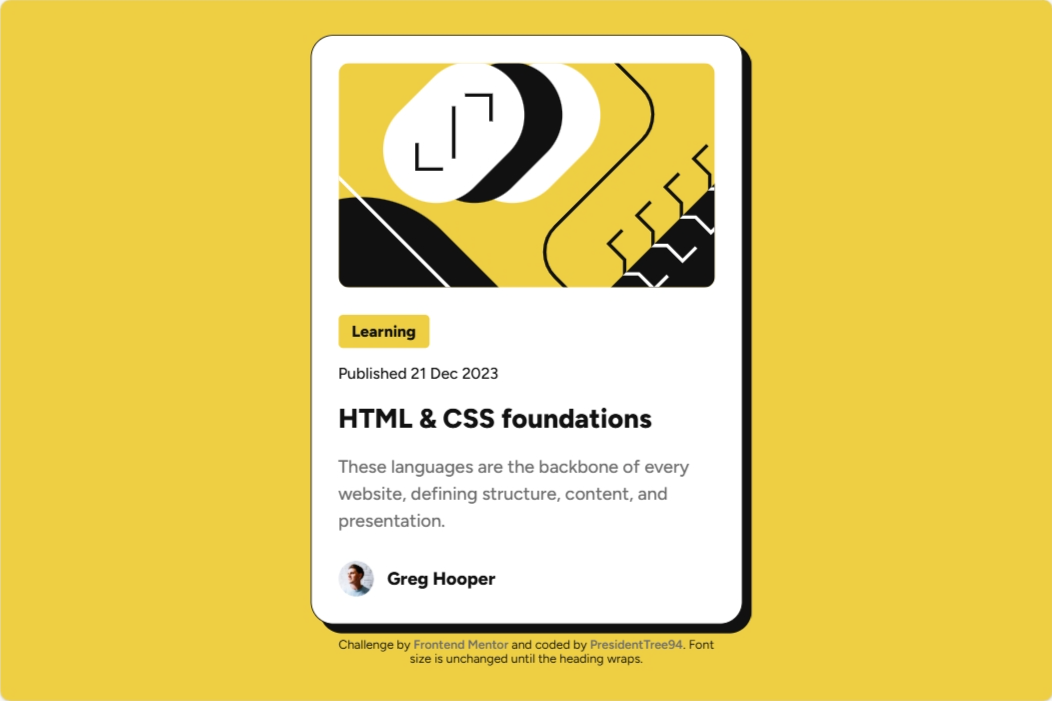
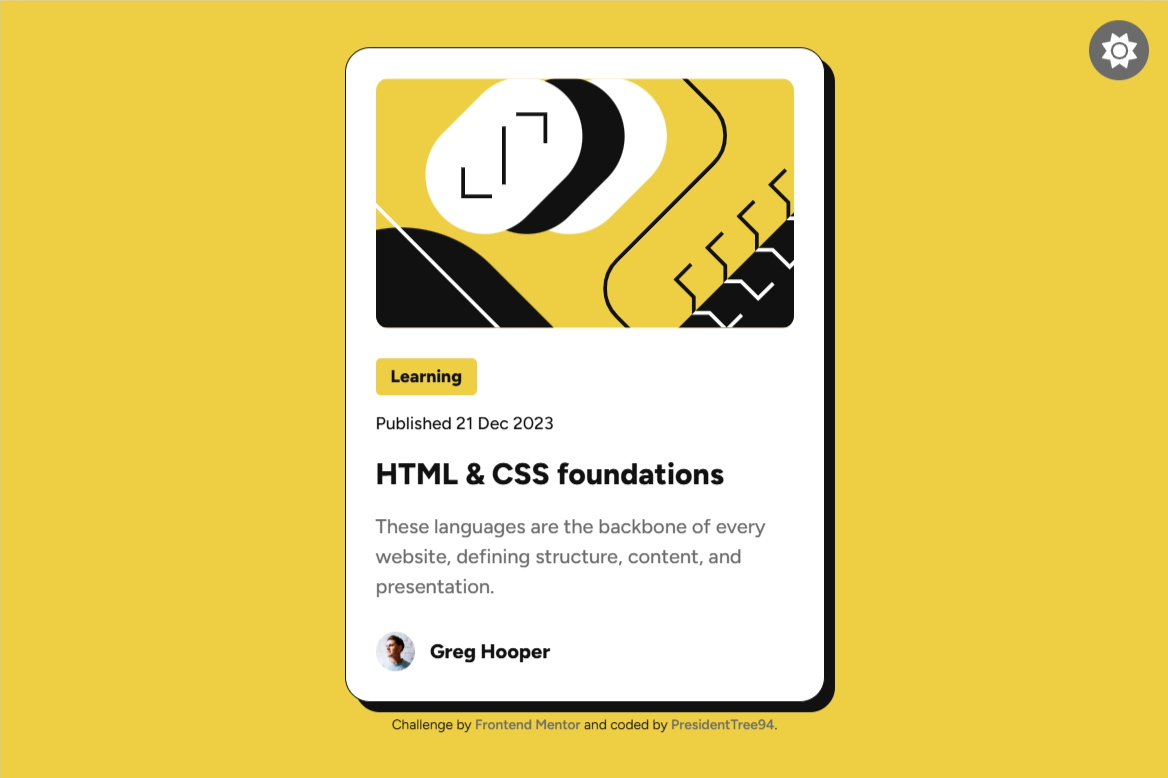
Add files via upload

diff --git a/dark-mode/toggle.js b/dark-mode/toggle.js
@@ -1,0 +1,35 @@
+const toggleButton = document.getElementById("toggle");
+const icon = toggleButton.querySelector("svg");
+
+const DARK_MODE_KEY = "dark-mode";
+const DARK_MODE_CLASS = "darkMode";
+
+const MOON_ICON = {
+  viewBox: "0 0 384 512",
+  path: `<path d="M223.5 32C100 32 0 132.3 0 256S100 480 223.5 480c60.6 0 115.5-24.2 155.8-63.4c5-4.9 6.3-12.5 3.1-18.7s-10.1-9.7-17-8.5c-9.8 1.7-19.8 2.6-30.1 2.6c-96.9 0-175.5-78.8-175.5-176c0-65.8 36-123.1 89.3-153.3c6.1-3.5 9.2-10.5 7.7-17.3s-7.3-11.9-14.3-12.5c-6.3-.5-12.6-.8-19-.8z"/>`
+};
+const SUN_ICON = {
+  viewBox: "0 0 512 512",
+  path: `<path d="M361.5 1.2c5 2.1 8.6 6.6 9.6 11.9L391 121l107.9 19.8c5.3 1 9.8 4.6 11.9 9.6s1.5 10.7-1.6 15.2L446.9 256l62.3 90.3c3.1 4.5 3.7 10.2 1.6 15.2s-6.6 8.6-11.9 9.6L391 391 371.1 498.9c-1 5.3-4.6 9.8-9.6 11.9s-10.7 1.5-15.2-1.6L256 446.9l-90.3 62.3c-4.5 3.1-10.2 3.7-15.2 1.6s-8.6-6.6-9.6-11.9L121 391 13.1 371.1c-5.3-1-9.8-4.6-11.9-9.6s-1.5-10.7 1.6-15.2L65.1 256 2.8 165.7c-3.1-4.5-3.7-10.2-1.6-15.2s6.6-8.6 11.9-9.6L121 121 140.9 13.1c1-5.3 4.6-9.8 9.6-11.9s10.7-1.5 15.2 1.6L256 65.1 346.3 2.8c4.5-3.1 10.2-3.7 15.2-1.6zM160 256a96 96 0 1 1 192 0 96 96 0 1 1 -192 0zm224 0a128 128 0 1 0 -256 0 128 128 0 1 0 256 0z"/>`
+};
+
+function setIcon(isDark) {
+  const iconData = isDark ? MOON_ICON : SUN_ICON;
+  icon.setAttribute("viewBox", iconData.viewBox);
+  icon.innerHTML = iconData.path;
+}
+
+function initDarkMode() {
+  const isDarkMode = localStorage.getItem(DARK_MODE_KEY) === "true";
+  if (isDarkMode) {
+    document.body.classList.add(DARK_MODE_CLASS);
+  }
+  setIcon(isDarkMode);
+}
+
+initDarkMode();
+toggleButton.addEventListener("click", () => {
+  const isDarkMode = document.body.classList.toggle(DARK_MODE_CLASS);
+  localStorage.setItem(DARK_MODE_KEY, isDarkMode);
+  setIcon(isDarkMode);
+});

diff --git a/index.html b/index.html
@@ -5,6 +5,7 @@
   <meta name="viewport" content="width=device-width, initial-scale=1.0">
   <link rel="icon" type="image/png" sizes="32x32" href="images/favicon-32x32.png">
   <link rel="stylesheet" href="style.css">
+  <link rel="stylesheet" href="dark-mode/toggle-style.css">
   <link rel="preconnect" href="https://fonts.googleapis.com">
   <link rel="preconnect" href="https://fonts.gstatic.com" crossorigin>
   <link href="https://fonts.googleapis.com/css2?family=Figtree:ital,wght@0,300..900;1,300..900&display=swap" rel="stylesheet">
@@ -12,6 +13,9 @@
 </head>
 <body>
   <div class="container">
+    <div id="toggle">
+      <svg xmlns="http://www.w3.org/2000/svg" viewBox="0 0 512 512"><path d="M361.5 1.2c5 2.1 8.6 6.6 9.6 11.9L391 121l107.9 19.8c5.3 1 9.8 4.6 11.9 9.6s1.5 10.7-1.6 15.2L446.9 256l62.3 90.3c3.1 4.5 3.7 10.2 1.6 15.2s-6.6 8.6-11.9 9.6L391 391 371.1 498.9c-1 5.3-4.6 9.8-9.6 11.9s-10.7 1.5-15.2-1.6L256 446.9l-90.3 62.3c-4.5 3.1-10.2 3.7-15.2 1.6s-8.6-6.6-9.6-11.9L121 391 13.1 371.1c-5.3-1-9.8-4.6-11.9-9.6s-1.5-10.7 1.6-15.2L65.1 256 2.8 165.7c-3.1-4.5-3.7-10.2-1.6-15.2s6.6-8.6 11.9-9.6L121 121 140.9 13.1c1-5.3 4.6-9.8 9.6-11.9s10.7-1.5 15.2 1.6L256 65.1 346.3 2.8c4.5-3.1 10.2-3.7 15.2-1.6zM160 256a96 96 0 1 1 192 0 96 96 0 1 1 -192 0zm224 0a128 128 0 1 0 -256 0 128 128 0 1 0 256 0z"/></svg>
+    </div>
     <main>
       <section>
         <img src="images/illustration-article.svg" alt="Preview">
@@ -33,5 +37,6 @@
       </footer>
     </main>
   </div>
+  <script src="dark-mode/toggle.js"></script>
 </body>
 </html>

diff --git a/style.css b/style.css
@@ -6,6 +6,13 @@
   --boxShadow: 0.5rem;
 }
 
+.darkMode {
+  --naplesYellow: rgb(214, 178, 48);
+  --white: rgb(17, 17, 17);
+  --dimGray: rgb(207, 207, 207);
+  --night: rgb(255, 255, 255);
+}
+
 * {
   margin: 0;
   padding: 0;
@@ -28,6 +35,14 @@ body {
   justify-content: center;
   align-items: center;
   overflow: hidden;
+}
+
+#toggle {
+  background-color: var(--dimGray);
+}
+
+svg {
+  fill: var(--white);
 }
 
 main {

diff --git a/dark-mode/toggle-style.css b/dark-mode/toggle-style.css
@@ -1,0 +1,25 @@
+#toggle {
+  position: fixed;
+  top: 1rem;
+  right: 1rem;
+  border-radius: 100%;
+  display: flex;
+  justify-content: center;
+  align-items: center;
+  height: 3rem;
+  width: 3rem;
+  z-index: 1;
+  transition: transform 0.3s ease;
+}
+
+#toggle:hover {
+  cursor: pointer;
+}
+
+#toggle:active {
+  transform: scale(0.9);
+}
+
+svg {
+  height: 1.75rem;
+}

diff --git a/dark-mode/README.md b/dark-mode/README.md
@@ -1,0 +1,20 @@
+# Instructions for Dark Mode
+These are the instructions for how to use Dark Mode in a project. By default, it is a round button with a sun in the middle. When selected, it changes to a moon, adds the `darkMode` class to the body, and saves the setting to the browser's local storage so it persists.
+
+## Requirements
+- The "dark-mode" folder and all its contents:
+  - toggle-style.css
+  - toggle.js
+
+## Steps
+1. Add a `<link>` to the HTML to the path of `toggle-style.css`.
+2. Add a `<script>` to the HTML to the path of `toggle.js`.
+3. Add a `.darkMode` to the CSS and redefine the CSS color variables. 
+4. Assign colors to `#toggle` and the `svg`.
+5. Add this to the HTML:
+
+```
+<div id="toggle">
+  <svg xmlns="http://www.w3.org/2000/svg" viewBox="0 0 512 512"><path d="M361.5 1.2c5 2.1 8.6 6.6 9.6 11.9L391 121l107.9 19.8c5.3 1 9.8 4.6 11.9 9.6s1.5 10.7-1.6 15.2L446.9 256l62.3 90.3c3.1 4.5 3.7 10.2 1.6 15.2s-6.6 8.6-11.9 9.6L391 391 371.1 498.9c-1 5.3-4.6 9.8-9.6 11.9s-10.7 1.5-15.2-1.6L256 446.9l-90.3 62.3c-4.5 3.1-10.2 3.7-15.2 1.6s-8.6-6.6-9.6-11.9L121 391 13.1 371.1c-5.3-1-9.8-4.6-11.9-9.6s-1.5-10.7 1.6-15.2L65.1 256 2.8 165.7c-3.1-4.5-3.7-10.2-1.6-15.2s6.6-8.6 11.9-9.6L121 121 140.9 13.1c1-5.3 4.6-9.8 9.6-11.9s10.7-1.5 15.2 1.6L256 65.1 346.3 2.8c4.5-3.1 10.2-3.7 15.2-1.6zM160 256a96 96 0 1 1 192 0 96 96 0 1 1 -192 0zm224 0a128 128 0 1 0 -256 0 128 128 0 1 0 256 0z"/></svg>
+</div>
+```

diff --git a/README.md b/README.md
@@ -7,6 +7,9 @@ As part of the [Getting started on Frontend Mentor](https://www.frontendmentor.i
 ### Screenshot
 ![Screenshot of desktop version](images/screenshot.png)
 
+### Modifications
+I added Dark Mode to the website. The `dark-mode` folder contains a separate README explaining how it works. The button is located in the top-right corner of the page and scales down slightly when selected.
+
 ### Links
 - Solution URL: [Frontend Mentor Solution Page](https://www.frontendmentor.io/solutions/blog-preview-card-pHA7bfGQ9B)
 - Live Site URL: [GitHub Page](https://presidenttree94.github.io/blog-preview-card/)
